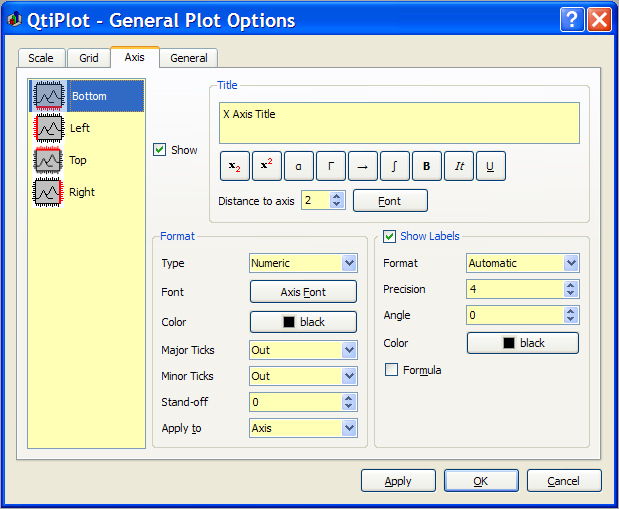
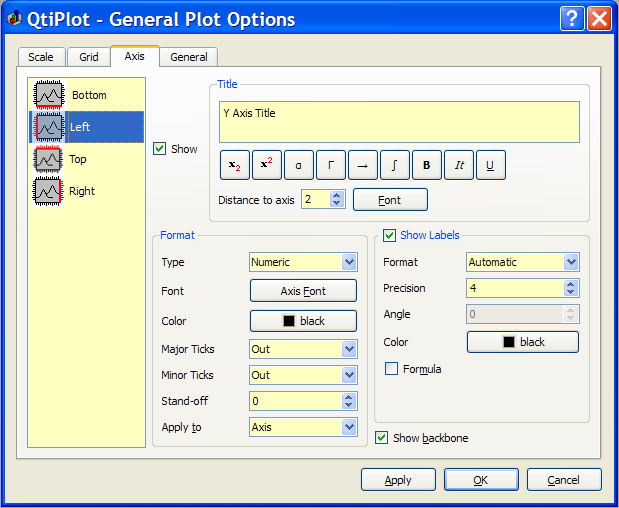
Added the possibility to disable the backbone of an individual axis.

diff --git a/trunk/qtiplot/src/plot2D/dialogs/AxesDialog.cpp b/trunk/qtiplot/src/plot2D/dialogs/AxesDialog.cpp
@@ -577,7 +577,14 @@ void AxesDialog::initAxesPage()
 	boxShowLabels->setCheckable(true);
 	boxShowLabels->setChecked(true);
 
-	bottomLayout->addWidget( boxShowLabels );
+	boxAxisBackbone = new QCheckBox(tr("Show &backbone"));
+
+	QVBoxLayout *vb = new QVBoxLayout;
+	vb->addWidget( boxShowLabels );
+	vb->addWidget( boxAxisBackbone );
+
+	bottomLayout->addLayout( vb );
+
 	QGridLayout *rightBoxLayout = new QGridLayout( boxShowLabels );
 
 	label1 = new QLabel(tr("Column"));
@@ -651,6 +658,7 @@ void AxesDialog::initAxesPage()
 	connect(axesTitlesList,SIGNAL(currentRowChanged(int)), this, SLOT(setAxisType(int)));
 	connect(axesTitlesList,SIGNAL(currentRowChanged(int)), this, SLOT(setBaselineDist(int)));
 	connect(axesTitlesList,SIGNAL(currentRowChanged(int)), this, SLOT(updateLabelsFormat(int)));
+	connect(axesTitlesList,SIGNAL(currentRowChanged(int)), this, SLOT(updateShowBackbone(int)));
 
 	connect(boxShowLabels,SIGNAL(clicked(bool)), this, SLOT(updateTickLabelsList(bool)));
 
@@ -659,6 +667,7 @@ void AxesDialog::initAxesPage()
 	connect(boxMajorTicksType, SIGNAL(activated(int)), this, SLOT(updatePlot()));
 	connect(boxMinorTicksType, SIGNAL(activated(int)), this, SLOT(updatePlot()));
 	connect(boxBaseline, SIGNAL(valueChanged(int)), this, SLOT(updatePlot()));
+	connect(boxAxisBackbone, SIGNAL(clicked(bool)), this, SLOT(updatePlot()));
 
 	connect(boxShowFormula, SIGNAL(clicked()), this, SLOT(showFormulaBox()));
 	connect(boxShowAxis, SIGNAL(clicked()), this, SLOT(showAxis()));
@@ -911,6 +920,7 @@ void AxesDialog::showAxis()
 	axisFormatBox->setEnabled(ok);
 	boxShowLabels->setEnabled(ok);
 	labelBox->setEnabled(ok);
+	boxAxisBackbone->setEnabled(ok);
 
     int axis = -1;
     int a = axesTitlesList->currentRow();
@@ -955,7 +965,7 @@ void AxesDialog::showAxis()
 
     showAxis(axis, boxAxisType->currentIndex(), boxColName->currentText(),ok, boxMajorTicksType->currentIndex(),
             boxMinorTicksType->currentIndex(), boxShowLabels->isChecked(), boxAxisColor->color(), boxFormat->currentIndex(),
-            boxPrecision->value(), boxAngle->value(), boxBaseline->value(), formula, boxAxisNumColor->color());
+			boxPrecision->value(), boxAngle->value(), boxBaseline->value(), formula, boxAxisNumColor->color(), boxAxisBackbone->isChecked());
 }
 
 void AxesDialog::updateShowBox(int axis)
@@ -1371,7 +1381,7 @@ bool AxesDialog::updatePlot()
 			formula = QString();
 		showAxis(axis, format, formatInfo, boxShowAxis->isChecked(), boxMajorTicksType->currentIndex(), boxMinorTicksType->currentIndex(),
 				boxShowLabels->isChecked(), boxAxisColor->color(), boxFormat->currentIndex(),
-				boxPrecision->value(), boxAngle->value(), baseline, formula, boxAxisNumColor->color());
+				boxPrecision->value(), boxAngle->value(), baseline, formula, boxAxisNumColor->color(), boxAxisBackbone->isChecked());
 
 		if (axis == QwtPlot::yRight){
 			QwtScaleWidget *scale = d_graph->axisWidget(axis);
@@ -1636,7 +1646,15 @@ void AxesDialog::setAxisType(int)
 
 void AxesDialog::setBaselineDist(int)
 {
-    boxBaseline->setValue(axesBaseline[mapToQwtAxisId()]);
+	boxBaseline->setValue(axesBaseline[mapToQwtAxisId()]);
+}
+
+void AxesDialog::updateShowBackbone(int)
+{
+	int axis = mapToQwtAxisId();
+	ScaleDraw *sd = (ScaleDraw *)d_graph->axisScaleDraw (axis);
+	if (sd)
+		boxAxisBackbone->setChecked(sd->hasComponent(QwtAbstractScaleDraw::Backbone));
 }
 
 void AxesDialog::setTicksType(int)
@@ -1679,7 +1697,7 @@ void AxesDialog::updateTickLabelsList(bool on)
 
     showAxis(axis, type, formatInfo, boxShowAxis->isChecked(), boxMajorTicksType->currentIndex(), boxMinorTicksType->currentIndex(),
                   boxShowLabels->isChecked(), boxAxisColor->color(), boxFormat->currentIndex(), boxPrecision->value(),
-	              boxAngle->value(), boxBaseline->value(), formula, boxAxisNumColor->color());
+				  boxAngle->value(), boxBaseline->value(), formula, boxAxisNumColor->color(), boxAxisBackbone->isChecked());
 }
 
 void AxesDialog::setCurrentScale(int axisPos)
@@ -1747,7 +1765,7 @@ void AxesDialog::setLabelsNumericFormat(int)
 
     showAxis(axis, type, formatInfo, boxShowAxis->isChecked(), boxMajorTicksType->currentIndex(),
 			boxMinorTicksType->currentIndex(), boxShowLabels->isChecked(), boxAxisColor->color(),
-			format, prec, boxAngle->value(), boxBaseline->value(), formula, boxAxisNumColor->color());
+			format, prec, boxAngle->value(), boxBaseline->value(), formula, boxAxisNumColor->color(), boxAxisBackbone->isChecked());
 }
 
 void AxesDialog::showAxisFormula(int axis)
@@ -1870,7 +1888,7 @@ void AxesDialog::updateMinorTicksList(int scaleType)
 
 void AxesDialog::showAxis(int axis, int type, const QString& labelsColName, bool axisOn,
 		int majTicksType, int minTicksType, bool labelsOn, const QColor& c, int format,
-		int prec, int rotation, int baselineDist, const QString& formula, const QColor& labelsColor)
+		int prec, int rotation, int baselineDist, const QString& formula, const QColor& labelsColor, bool backbone)
 {
 	ApplicationWindow *app = (ApplicationWindow *)this->parent();
 	if (!app)
@@ -1883,7 +1901,7 @@ void AxesDialog::showAxis(int axis, int type, const QString& labelsColName, bool
 	if (!d_graph)
 		return;
 	d_graph->showAxis(axis, type, labelsColName, w, axisOn, majTicksType, minTicksType, labelsOn,
-			c, format, prec, rotation, baselineDist, formula, labelsColor);
+			c, format, prec, rotation, baselineDist, formula, labelsColor, backbone);
 }
 
 void AxesDialog::applyCanvasFormatTo(Graph *g)

diff --git a/trunk/qtiplot/src/plot2D/Graph.cpp b/trunk/qtiplot/src/plot2D/Graph.cpp
@@ -517,21 +517,30 @@ QString Graph::saveLabelsFormat()
 
 QString Graph::saveAxesBaseline()
 {
-	QString s="AxesBaseline\t";
-	for (int i = 0; i<QwtPlot::axisCnt; i++)
-	{
+	QString s = "AxesBaseline\t";
+	for (int i = 0; i<QwtPlot::axisCnt; i++){
 		QwtScaleWidget *scale = (QwtScaleWidget *)axisWidget(i);
 		if (scale)
-			s+= QString::number(scale->margin()) + "\t";
+			s += QString::number(scale->margin()) + "\t";
 		else
-			s+= "0\t";
+			s += "0\t";
 	}
-	return s+"\n";
+	return s + "\n";
+}
+
+QString Graph::saveAxesBackbones()
+{
+	QString s = "DrawAxesBackbone\t" + QString::number(drawAxesBackbone);
+	for (int i = 0; i < QwtPlot::axisCnt; i++){
+		const QwtScaleDraw *sd = axisScaleDraw (i);
+		s += "\t" + QString::number(sd->hasComponent(QwtAbstractScaleDraw::Backbone));
+	}
+	return s + "\n";
 }
 
 QString Graph::saveLabelsRotation()
 {
-	QString s="LabelsRotation\t";
+	QString s = "LabelsRotation\t";
 	s+=QString::number(labelsRotation(QwtPlot::xBottom))+"\t";
 	s+=QString::number(labelsRotation(QwtPlot::xTop))+"\n";
 	return s;
@@ -651,7 +660,7 @@ void Graph::changeTicksLength(int minLength, int majLength)
 void Graph::showAxis(int axis, int type, const QString& formatInfo, Table *table,
 		bool axisOn, int majTicksType, int minTicksType, bool labelsOn,
 		const QColor& c,  int format, int prec, int rotation, int baselineDist,
-		const QString& formula, const QColor& labelsColor)
+		const QString& formula, const QColor& labelsColor, bool backbone)
 {
 	enableAxis(axis, axisOn);
 	if (!axisOn)
@@ -675,7 +684,8 @@ void Graph::showAxis(int axis, int type, const QString& formatInfo, Table *table
 		sd->formatString() == formatInfo &&
 		sd->formula() == formula &&
 		scale->margin() == baselineDist &&
-		sd->hasComponent (QwtAbstractScaleDraw::Labels) == labelsOn)
+		sd->hasComponent(QwtAbstractScaleDraw::Labels) == labelsOn &&
+		sd->hasComponent(QwtAbstractScaleDraw::Backbone) == backbone)
 		return;
 
 	scale->setMargin(baselineDist);
@@ -714,7 +724,7 @@ void Graph::showAxis(int axis, int type, const QString& formatInfo, Table *table
 	}
 
 	sd = (ScaleDraw *)axisScaleDraw (axis);
-	sd->enableComponent(QwtAbstractScaleDraw::Backbone, drawAxesBackbone);
+	sd->enableComponent(QwtAbstractScaleDraw::Backbone, backbone);
 
 	setAxisTicksLength(axis, majTicksType, minTicksType,
 			minorTickLength(), majorTickLength());
@@ -1927,21 +1937,30 @@ void Graph::drawAxesBackbones(bool yes)
 	emit modifiedGraph();
 }
 
-void Graph::loadAxesOptions(const QString& s)
+void Graph::loadAxesOptions(const QStringList& lst)
 {
-	if (s == "1")
+	if (lst.size() < 2)
 		return;
 
-	drawAxesBackbone = false;
+	drawAxesBackbone = (lst[1] == "1");
 
-	for (int i=0; i<QwtPlot::axisCnt; i++)
-	{
-		QwtScaleWidget *scale=(QwtScaleWidget*) axisWidget(i);
-		if (scale)
-		{
-			ScaleDraw *sclDraw = (ScaleDraw *)axisScaleDraw (i);
-			sclDraw->enableComponent (QwtAbstractScaleDraw::Backbone, false);
-			scale->repaint();
+	if (lst.size() == 6){
+		for (int i = 0; i<QwtPlot::axisCnt; i++){
+			QwtScaleWidget *scale = (QwtScaleWidget*) axisWidget(i);
+			if (scale){
+				ScaleDraw *sclDraw = (ScaleDraw *)axisScaleDraw (i);
+				sclDraw->enableComponent (QwtAbstractScaleDraw::Backbone, lst[i + 2].toInt());
+				scale->repaint();
+			}
+		}
+	} else if (!drawAxesBackbone){
+		for (int i=0; i<QwtPlot::axisCnt; i++){
+			QwtScaleWidget *scale=(QwtScaleWidget*) axisWidget(i);
+			if (scale){
+				ScaleDraw *sclDraw = (ScaleDraw *)axisScaleDraw (i);
+				sclDraw->enableComponent (QwtAbstractScaleDraw::Backbone, false);
+				scale->repaint();
+			}
 		}
 	}
 }
@@ -3922,7 +3941,7 @@ QString Graph::saveToString(bool saveAsTemplate)
 	s+=saveAxesLabelsType();
 	s+=saveTicksType();
 	s+="TicksLength\t"+QString::number(minorTickLength())+"\t"+QString::number(majorTickLength())+"\n";
-	s+="DrawAxesBackbone\t"+QString::number(drawAxesBackbone)+"\n";
+	s+=saveAxesBackbones();
 	s+="AxesLineWidth\t"+QString::number(axesLinewidth())+"\n";
 	s+=saveLabelsRotation();
 	s+=saveMarkers();
@@ -4354,10 +4373,8 @@ void Graph::copy(Graph* g)
 				ScaleDraw *sd = (ScaleDraw *)g->axisScaleDraw(i);
 				setAxisScaleDraw(i, new ScaleDraw(this, sd->labelsList(), sd->formatString(), sd->scaleType()));
 			}
-		} else {
-			ScaleDraw *sd = (ScaleDraw *)axisScaleDraw (i);
-			sd->enableComponent (QwtAbstractScaleDraw::Labels, false);
-		}
+		} else
+			axisScaleDraw (i)->enableComponent (QwtAbstractScaleDraw::Labels, false);
 	}
 	for (int i=0; i<QwtPlot::axisCnt; i++){//set same scales
 		const ScaleEngine *se = (ScaleEngine *)g->axisScaleEngine(i);
@@ -4383,10 +4400,16 @@ void Graph::copy(Graph* g)
 		setAxisScaleDiv (i, div);
 	}
 
-	drawAxesBackbones(g->drawAxesBackbone);
 	setMajorTicksType(g->getMajorTicksType());
 	setMinorTicksType(g->getMinorTicksType());
 	setTicksLength(g->minorTickLength(), g->majorTickLength());
+
+	for (int i = 0; i < QwtPlot::axisCnt; i++){
+		QwtScaleWidget *sc = g->axisWidget(i);
+		if (!sc)
+			continue;
+		axisScaleDraw(i)->enableComponent (QwtAbstractScaleDraw::Backbone, g->axisScaleDraw (i)->hasComponent(QwtAbstractScaleDraw::Backbone));
+	}
 
 	setAxisLabelRotation(QwtPlot::xBottom, g->labelsRotation(QwtPlot::xBottom));
   	setAxisLabelRotation(QwtPlot::xTop, g->labelsRotation(QwtPlot::xTop));

diff --git a/trunk/qtiplot/src/plot2D/Graph.h b/trunk/qtiplot/src/plot2D/Graph.h
@@ -416,6 +416,7 @@ class Graph: public QwtPlot
 		QString saveAxesLabelsType();
 		QString saveAxesBaseline();
 		QString saveAxesFormulas();
+		QString saveAxesBackbones();
 		//@}
 
 		//! \name Texts
@@ -527,7 +528,7 @@ class Graph: public QwtPlot
 
 		void showAxis(int axis, int type, const QString& formatInfo, Table *table, bool axisOn,
 				int majTicksType, int minTicksType, bool labelsOn, const QColor& c, int format,
-                int prec, int rotation, int baselineDist, const QString& formula, const QColor& labelsColor);
+				int prec, int rotation, int baselineDist, const QString& formula, const QColor& labelsColor, bool backbone = true);
 
 		void enableAxis(int axis, bool on = true);
 		void enableAxisLabels(int axis, bool on = true);
@@ -541,7 +542,7 @@ class Graph: public QwtPlot
 		void drawAxesBackbones(bool yes);
 		bool axesBackbones(){return drawAxesBackbone;};
 		//! used when opening a project file
-		void loadAxesOptions(const QString& s);
+		void loadAxesOptions(const QStringList& lst);
 
 		void setAxisMargin(int axis, int margin);
 

diff --git a/trunk/qtiplot/src/plot2D/dialogs/AxesDialog.h b/trunk/qtiplot/src/plot2D/dialogs/AxesDialog.h
@@ -119,12 +119,12 @@ private slots:
 	void changeMinorTicksLength (int minLength);
 	void changeMajorTicksLength (int majLength);
 	void pageChanged ( QWidget *page);
-	void showAxis(int, int, const QString&, bool, int, int, bool,
-				  const QColor&, int, int, int, int, const QString&, const QColor&);
+	void showAxis(int, int, const QString&, bool, int, int, bool, const QColor&, int, int, int, int, const QString&, const QColor&, bool);
     void applyCanvasFormat();
     void setFrameDefaultValues();
 	void applyAxisFormat();
 	void setDisplayDateTimeFormat( const QString &);
+	void updateShowBackbone(int);
 
 protected:
     void applyCanvasFormatTo(Graph *g);
@@ -212,6 +212,7 @@ protected:
 	QComboBox *axisFormatApplyToBox;
 	QDateTimeEdit *originDateTimeBox;
 	QCheckBox *invertTitleBox;
+	QCheckBox* boxAxisBackbone;
 };
 
 #endif

diff --git a/trunk/qtiplot/src/core/ApplicationWindow.cpp b/trunk/qtiplot/src/core/ApplicationWindow.cpp
@@ -11987,8 +11987,7 @@ Graph* ApplicationWindow::openGraph(ApplicationWindow* app, MultiLayer *plot,
 		}
 		else if (s.contains ("DrawAxesBackbone"))
 		{
-			QStringList fList=s.split("\t");
-			ag->loadAxesOptions(fList[1]);
+			ag->loadAxesOptions(s.split("\t"));
 		}
 		else if (s.contains ("AxesLineWidth"))
 		{
